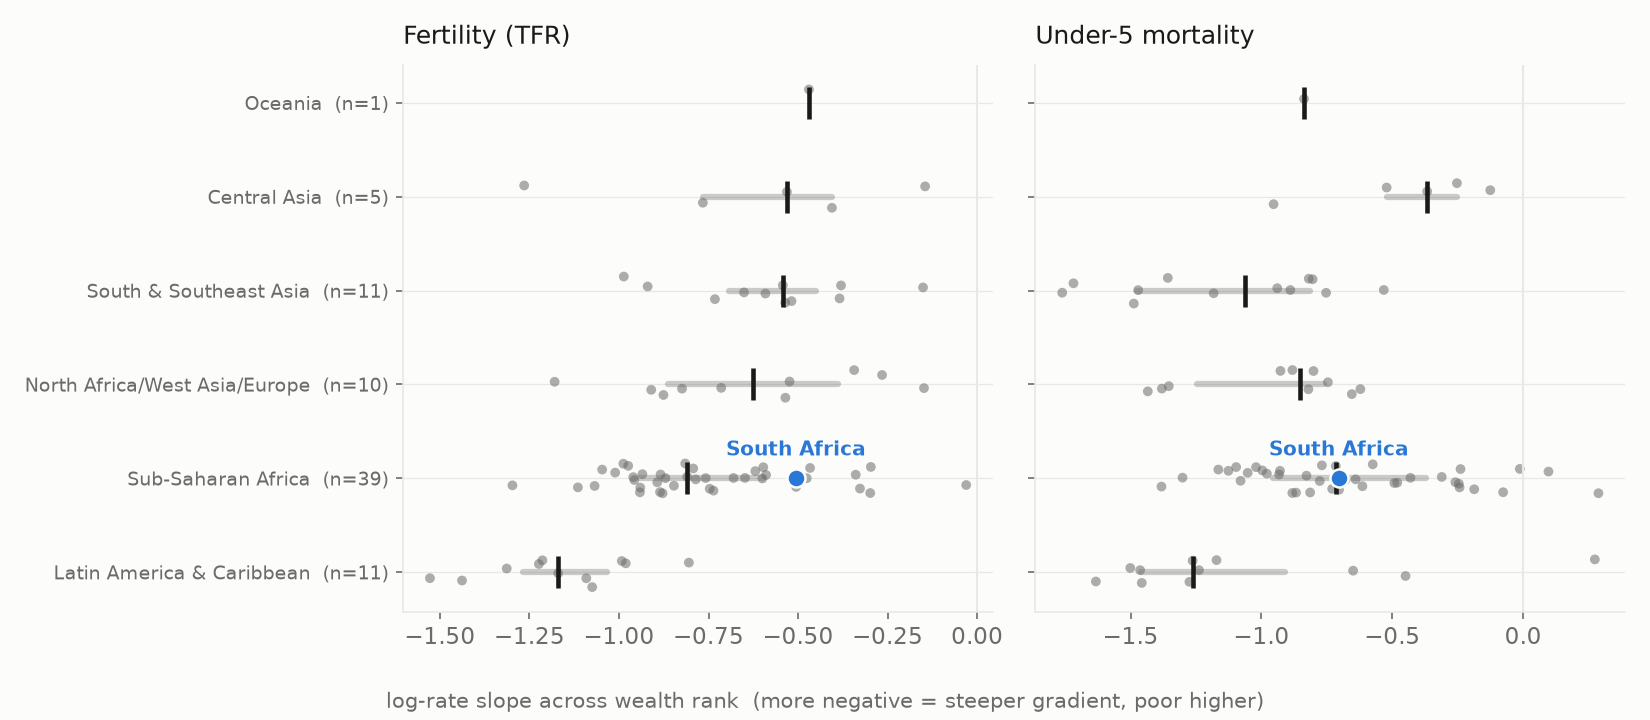
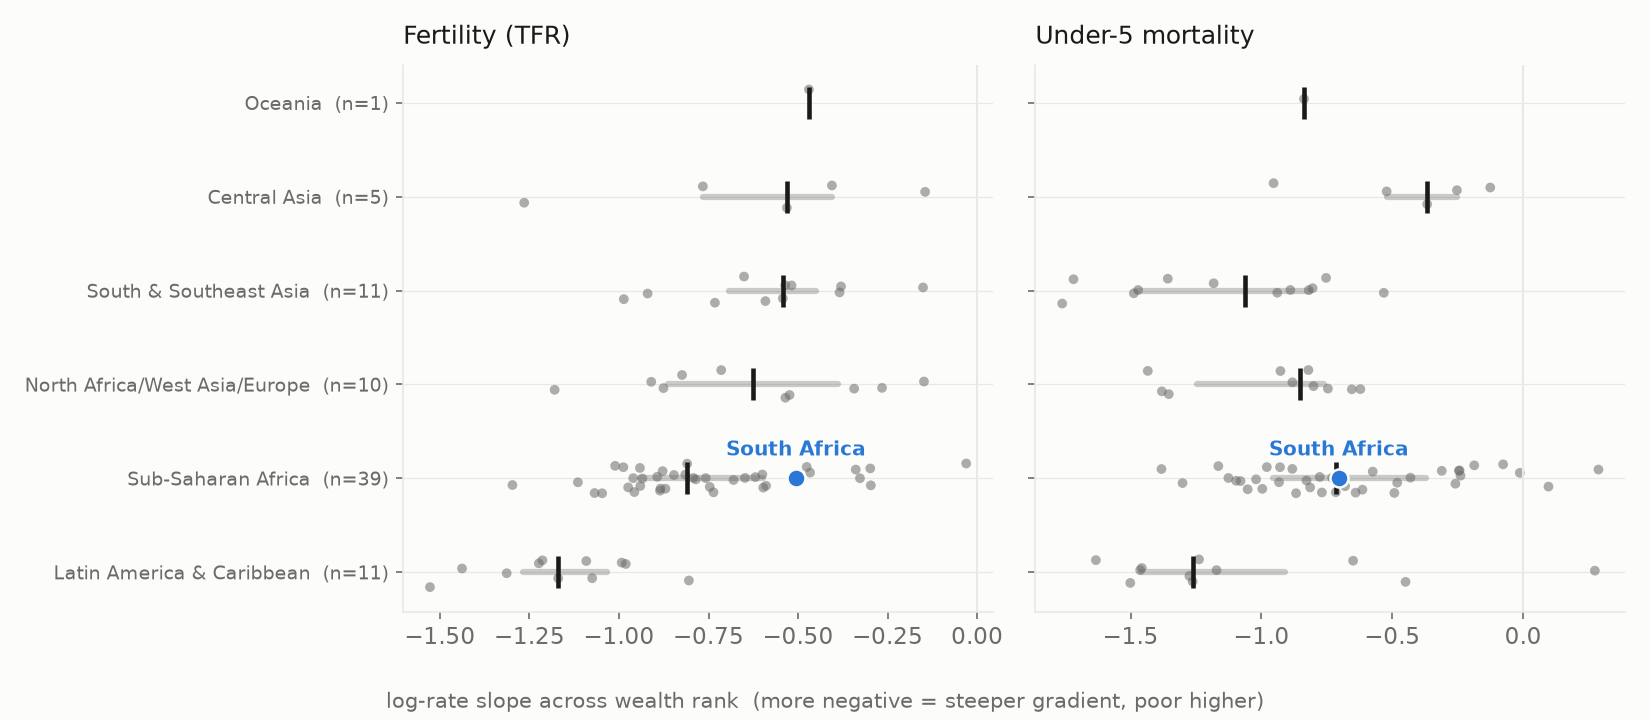
Make the analysis regenerable: build_analysis.py + refresh.py
ANALYSIS.md and the README's headline table are now generated from the
data by scripts/build_analysis.py, so the documentation cannot drift
from the CSVs it describes. scripts/refresh.py chains the whole
pipeline on demand — pull the DHS API, rebuild the figures, regenerate
the docs, and stamp the data vintage in the README (--no-pull skips
the API and rebuilds figures and docs only). Verified end to end: a
full refresh reproduces the committed library exactly.

diff --git a/scripts/build_analysis.py b/scripts/build_analysis.py
@@ -1,0 +1,184 @@
+# /// script
+# requires-python = ">=3.10"
+# dependencies = ["pandas"]
+# ///
+"""Regenerate ANALYSIS.md and the README headline table from the data in ../data/.
+
+Keeps every data-derived number in the prose in sync with the CSVs, so the
+documentation cannot drift from the data it describes. The narrative is fixed
+here; the counts, tilts, and regional tables are computed. Run after the data
+or figures change:
+
+    uv run scripts/build_analysis.py
+
+(or just run scripts/refresh.py, which chains data -> figures -> analysis).
+"""
+
+from pathlib import Path
+
+import pandas as pd
+
+ROOT = Path(__file__).resolve().parent.parent
+DATA = ROOT / "data"
+REGION_ORDER_NOTE = "(single survey)"
+NEG = "−"  # true minus sign, matching the rest of the docs
+
+
+def fmt(x):
+    return f"{NEG}{abs(x):.2f}" if x < 0 else f"{x:.2f}"
+
+
+def load():
+    lib = pd.read_csv(DATA / "gradient_library.csv")
+    latest = pd.read_csv(DATA / "gradient_library_latest.csv").merge(
+        pd.read_csv(DATA / "dhs_regions.csv"), on="country", how="left"
+    )
+    return lib, latest
+
+
+def headline(latest, ind):
+    l = latest[latest["indicator"] == ind]
+    return {
+        "n": l["country"].nunique(),
+        "med": l["slope"].median(),
+        "q25": l["slope"].quantile(0.25),
+        "q75": l["slope"].quantile(0.75),
+        "ratio": l["ratio"].median(),
+    }
+
+
+def region_table(latest, ind):
+    l = latest[latest["indicator"] == ind]
+    g = (
+        l.groupby("region")
+        .agg(
+            n=("country", "nunique"),
+            med=("slope", "median"),
+            q25=("slope", lambda s: s.quantile(0.25)),
+            q75=("slope", lambda s: s.quantile(0.75)),
+            ratio=("ratio", "median"),
+        )
+        .sort_values("med")
+    )
+    rows = []
+    for rgn, r in g.iterrows():
+        iqr = REGION_ORDER_NOTE if r["n"] == 1 else f"{fmt(r['q25'])} to {fmt(r['q75'])}"
+        rows.append(
+            f"| {rgn} | {int(r['n'])} | {fmt(r['med'])} | {iqr} | {r['ratio']:.2f} |"
+        )
+    return "\n".join(rows)
+
+
+def sa(latest, ind):
+    row = latest[(latest["indicator"] == ind) & (latest["country"] == "South Africa")]
+    if not len(row):
+        return None
+    return {"slope": row["slope"].iloc[0], "ratio": row["ratio"].iloc[0], "year": int(row["year"].iloc[0])}
+
+
+def replace_between(text, start, end, new):
+    a, b = text.index(start) + len(start), text.index(end)
+    return text[:a] + "\n" + new + "\n" + text[b:]
+
+
+def main():
+    lib, latest = load()
+    tfr, u5 = headline(latest, "TFR"), headline(latest, "U5MR")
+    n_surveys = len(lib)
+    n_countries = latest["country"].nunique()
+
+    # --- README headline table (between markers) ---
+    readme_path = ROOT / "README.md"
+    readme = readme_path.read_text()
+    table = (
+        "| Margin | Countries | Median tilt | IQR | Median poorest/richest ratio |\n"
+        "|---|---|---|---|---|\n"
+        f"| Fertility (TFR) | {tfr['n']} | **{fmt(tfr['med'])}** | "
+        f"{fmt(tfr['q25'])} to {fmt(tfr['q75'])} | {tfr['ratio']:.2f} |\n"
+        f"| Under-5 mortality | {u5['n']} | **{fmt(u5['med'])}** | "
+        f"{fmt(u5['q25'])} to {fmt(u5['q75'])} | {u5['ratio']:.2f} |"
+    )
+    readme = replace_between(
+        readme,
+        "<!-- AUTO-GENERATED by scripts/build_analysis.py — do not edit by hand -->",
+        "<!-- END AUTO-GENERATED -->",
+        table,
+    )
+    readme_path.write_text(readme)
+    print(f"updated README headline table ({n_surveys} surveys, {n_countries} countries)")
+
+    # --- ANALYSIS.md (fully generated) ---
+    sa_t, sa_u = sa(latest, "TFR"), sa(latest, "U5MR")
+    doc = f"""# The gradient library, in figures
+
+Documentation of the data in this repo. **This file is generated** by
+[`scripts/build_analysis.py`](scripts/build_analysis.py) from the CSVs in
+[`data/`](data/); every number below is computed from the data, not hand-typed,
+so it cannot drift. Figures come from
+[`scripts/make_figures.py`](scripts/make_figures.py) and live in
+[`figures/`](figures/). Regenerate both with `uv run scripts/refresh.py`.
+
+South Africa is highlighted throughout as the worked example; pass
+`--highlight "<country>"` to `make_figures.py` to feature any other.
+
+The **tilt** summarizing each survey is the OLS slope of ln(rate) on wealth-rank
+percentile midpoints (quintiles at the 10th…90th percentile) — the same log scale
+OG-Core's income-group demographics consume. Negative means the poor have higher
+rates; a tilt of {fmt(tfr['med'])} puts the poorest decile's rate at about
+e^({abs(tfr['med']):.2f}×0.8) ≈ {2.718281828 ** (abs(tfr['med']) * 0.8):.1f}× the richest decile's.
+
+Coverage: **{n_surveys} surveys with complete wealth quintets across
+{n_countries} countries** (most recent survey per country used for the library
+view below).
+
+## Every country, individually
+
+Nearly every line slopes down: the wealth gradient in fertility is close to
+universal. South Africa is both low-fertility and mild-gradient (tilt
+{fmt(sa_t['slope'])} in {sa_t['year']}, vs the pooled median of {fmt(tfr['med'])}).
+
+![Fertility (TFR) by household wealth rank, one line per country](figures/fig1_tfr_gradients.png)
+
+The same universal direction holds for child mortality, with wider spread across
+countries. South Africa's non-monotonic top quintiles reflect the small
+child-mortality samples in its {sa_u['year']} survey.
+
+![Under-5 mortality by household wealth rank, one line per country](figures/fig2_u5mr_gradients.png)
+
+## Grouped by region
+
+Each dot is a country's most recent survey; the bar marks the regional
+interquartile range and the tick marks the median. Latin America has the steepest
+gradients; Sub-Saharan Africa sits mid-range; South Africa is milder than its
+region's median on fertility.
+
+![Distribution of gradient tilts by region](figures/fig3_slopes_by_region.png)
+
+**Fertility (TFR) tilt by region**
+
+| Region | Countries | Median tilt | IQR | Median poorest/richest ratio |
+|---|---|---|---|---|
+{region_table(latest, "TFR")}
+
+**Under-5 mortality tilt by region**
+
+| Region | Countries | Median tilt | IQR | Median poorest/richest ratio |
+|---|---|---|---|---|
+{region_table(latest, "U5MR")}
+
+## Stability over survey years
+
+All {n_surveys} surveys plotted by fieldwork year, with a rolling median. The
+pooled gradient is nearly flat across three and a half decades — wealth gradients
+are a stable structural feature, not an eroding one, so a borrowed gradient is not
+a decaying quantity. South Africa's own fertility gradient flattened between its
+1998 and {sa_t['year']} surveys.
+
+![Gradient tilts across survey years](figures/fig4_slopes_over_time.png)
+"""
+    (ROOT / "ANALYSIS.md").write_text(doc)
+    print("wrote ANALYSIS.md")
+
+
+if __name__ == "__main__":
+    main()

diff --git a/scripts/refresh.py b/scripts/refresh.py
@@ -1,0 +1,58 @@
+# /// script
+# requires-python = ">=3.10"
+# dependencies = []
+# ///
+"""Refresh the whole library on demand: data -> figures -> analysis.
+
+    uv run scripts/refresh.py            # full refresh (re-pulls the DHS API)
+    uv run scripts/refresh.py --no-pull  # keep data/, rebuild figures + docs only
+
+Chains the three build scripts and stamps the data vintage in the README.
+Each stage is also runnable on its own:
+
+    build_gradient_library.py   pull the DHS API, rewrite data/
+    make_figures.py             rebuild figures/ from data/
+    build_analysis.py           regenerate ANALYSIS.md + README numbers from data/
+"""
+
+import argparse
+import datetime
+import re
+import subprocess
+import sys
+from pathlib import Path
+
+ROOT = Path(__file__).resolve().parent.parent
+SCRIPTS = ROOT / "scripts"
+
+
+def run(script):
+    print(f"==> {script}")
+    subprocess.run(["uv", "run", str(SCRIPTS / script)], check=True)
+
+
+def main():
+    ap = argparse.ArgumentParser()
+    ap.add_argument(
+        "--no-pull",
+        action="store_true",
+        help="skip the DHS API pull; rebuild figures and docs from existing data/",
+    )
+    args = ap.parse_args()
+
+    if not args.no_pull:
+        run("build_gradient_library.py")
+        # Stamp the data vintage wherever the README states it
+        readme = ROOT / "README.md"
+        today = datetime.date.today().strftime("%-d %B %Y")
+        text = re.sub(r"API pull of \d{1,2} \w+ \d{4}", f"API pull of {today}", readme.read_text())
+        readme.write_text(text)
+        print(f"stamped data vintage: {today}")
+
+    run("make_figures.py")
+    run("build_analysis.py")
+    print("refresh complete — review `git diff`, then commit.")
+
+
+if __name__ == "__main__":
+    sys.exit(main())

diff --git a/ANALYSIS.md b/ANALYSIS.md
@@ -1,20 +1,30 @@
 # The gradient library, in figures
 
-Documentation of the data in this repo. Every figure is generated from the CSVs in
-[`data/`](data/) by [`scripts/make_figures.py`](scripts/make_figures.py) and lives
-in [`figures/`](figures/). South Africa is highlighted throughout as the worked
-example; pass `--highlight "<country>"` to the script to feature any other.
+Documentation of the data in this repo. **This file is generated** by
+[`scripts/build_analysis.py`](scripts/build_analysis.py) from the CSVs in
+[`data/`](data/); every number below is computed from the data, not hand-typed,
+so it cannot drift. Figures come from
+[`scripts/make_figures.py`](scripts/make_figures.py) and live in
+[`figures/`](figures/). Regenerate both with `uv run scripts/refresh.py`.
+
+South Africa is highlighted throughout as the worked example; pass
+`--highlight "<country>"` to `make_figures.py` to feature any other.
 
 The **tilt** summarizing each survey is the OLS slope of ln(rate) on wealth-rank
 percentile midpoints (quintiles at the 10th…90th percentile) — the same log scale
 OG-Core's income-group demographics consume. Negative means the poor have higher
-rates; a tilt of −0.79 puts the poorest decile's rate at about e^(0.79×0.8) ≈ 1.9×
-the richest decile's.
+rates; a tilt of −0.79 puts the poorest decile's rate at about
+e^(0.79×0.8) ≈ 1.9× the richest decile's.
+
+Coverage: **601 surveys with complete wealth quintets across
+78 countries** (most recent survey per country used for the library
+view below).
 
 ## Every country, individually
 
 Nearly every line slopes down: the wealth gradient in fertility is close to
-universal. South Africa is both low-fertility and mild-gradient.
+universal. South Africa is both low-fertility and mild-gradient (tilt
+−0.51 in 2016, vs the pooled median of −0.79).
 
 ![Fertility (TFR) by household wealth rank, one line per country](figures/fig1_tfr_gradients.png)
 
@@ -55,12 +65,12 @@ region's median on fertility.
 | Sub-Saharan Africa | 39 | −0.72 | −0.96 to −0.37 | 1.80 |
 | Central Asia | 5 | −0.37 | −0.52 to −0.25 | 1.40 |
 
-## Stability over 35 years of surveys
+## Stability over survey years
 
-All 601 surveys plotted by fieldwork year, with a rolling median. The pooled
-gradient is nearly flat from 1990 to 2024 — wealth gradients are a stable
-structural feature, not an eroding one, so a borrowed gradient is not a decaying
-quantity. South Africa's own fertility gradient flattened between its 1998 and
-2016 surveys.
+All 601 surveys plotted by fieldwork year, with a rolling median. The
+pooled gradient is nearly flat across three and a half decades — wealth gradients
+are a stable structural feature, not an eroding one, so a borrowed gradient is not
+a decaying quantity. South Africa's own fertility gradient flattened between its
+1998 and 2016 surveys.
 
-![Gradient tilts across survey years, 1990–2024](figures/fig4_slopes_over_time.png)
+![Gradient tilts across survey years](figures/fig4_slopes_over_time.png)

diff --git a/README.md b/README.md
@@ -16,10 +16,15 @@ population *levels*: a stable mirror the country repos can reference by raw URL.
 
 ## The headline numbers (latest survey per country)
 
+<!-- AUTO-GENERATED by scripts/build_analysis.py — do not edit by hand -->
 | Margin | Countries | Median tilt | IQR | Median poorest/richest ratio |
 |---|---|---|---|---|
 | Fertility (TFR) | 77 | **−0.79** | −0.97 to −0.53 | 1.90 |
 | Under-5 mortality | 78 | **−0.82** | −1.16 to −0.54 | 1.96 |
+<!-- END AUTO-GENERATED -->
+
+*(601 surveys, 78 countries; DHS API pull of 23 July 2026. Regenerate with
+`uv run scripts/refresh.py`.)*
 
 The **tilt** is the OLS slope of ln(rate) on wealth-rank percentile midpoints
 (quintiles at the 10th...90th percentile) — the same log-scale OG-Core's